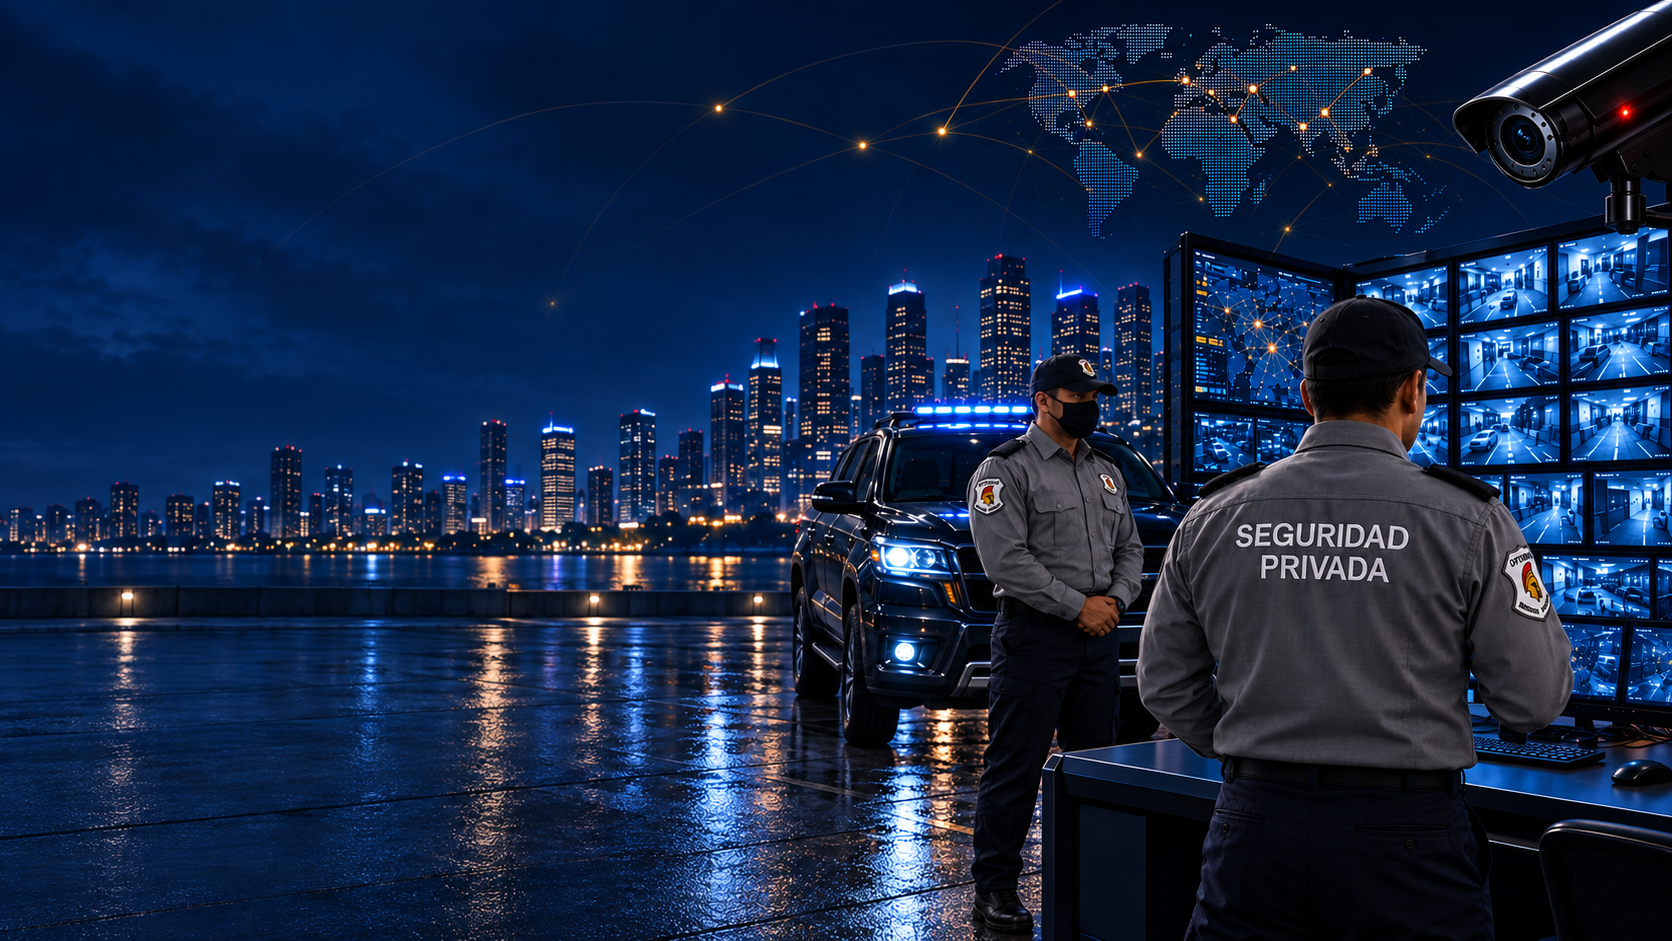
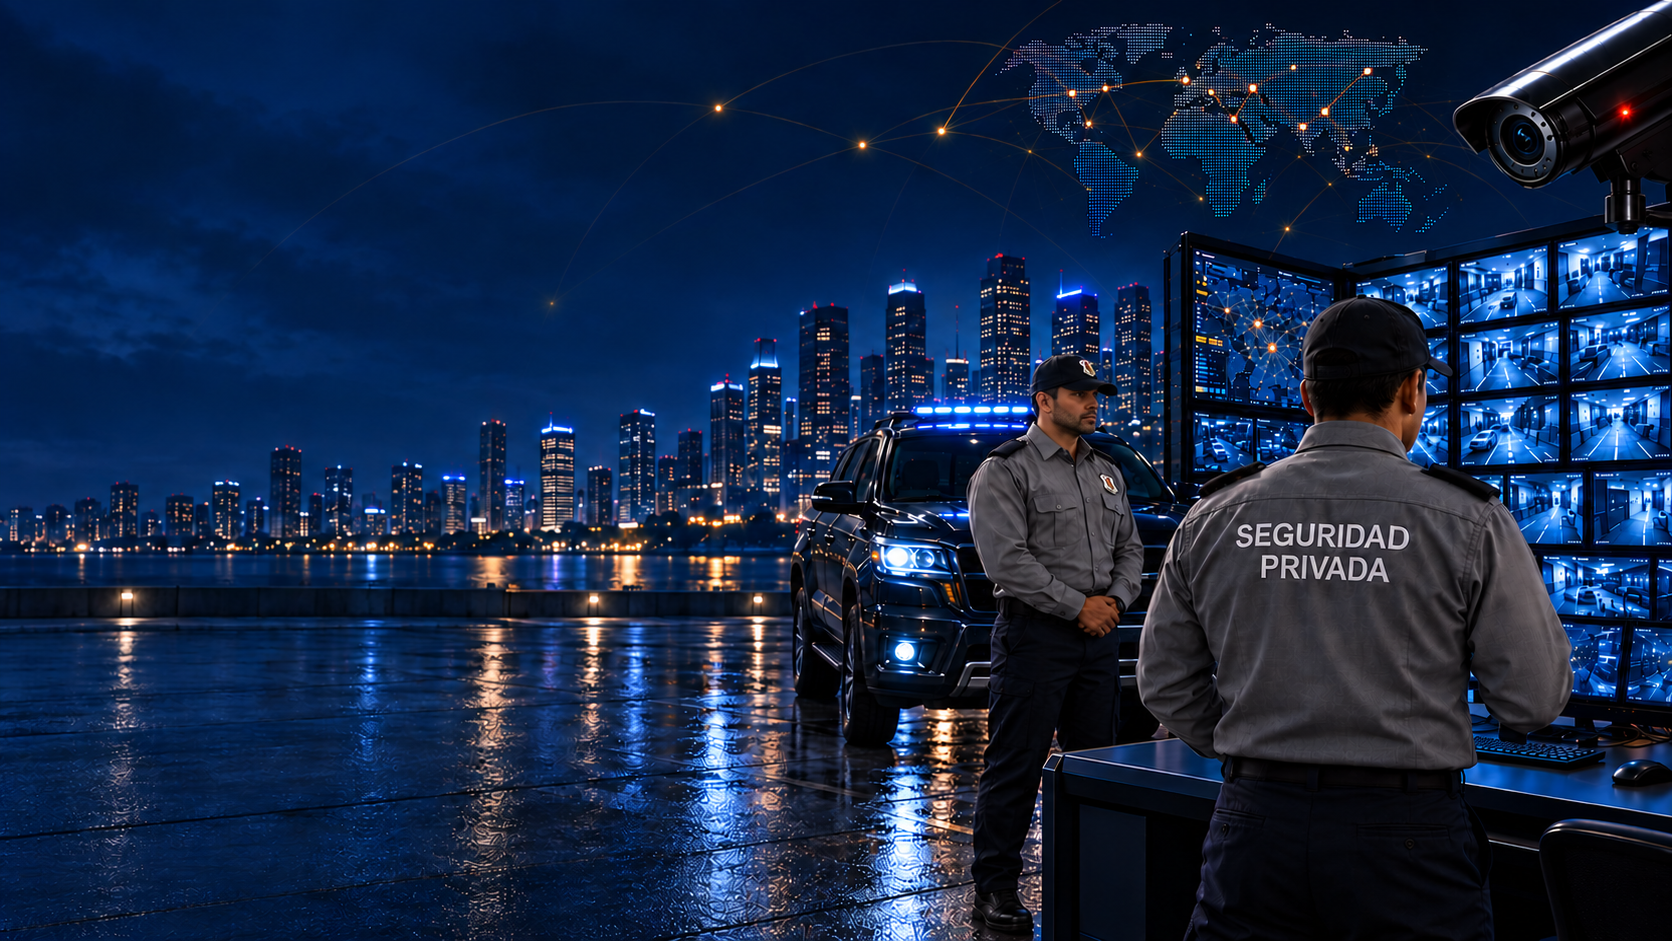
Responsive text alingment and hero helmet positioning

diff --git a/dark-classic-metallic-serif/index.html b/dark-classic-metallic-serif/index.html
@@ -7,7 +7,7 @@
   <meta name="description" content="OPTIMUM Seguridad Privada, S.C. en Culiacán, Sinaloa. Vigilancia profesional para empresas, campos agrícolas, granjas acuícolas e inmuebles.">
   <title>OPTIMUM | Seguridad Privada</title>
   <link rel="icon" href="assets/favicon.ico" type="image/x-icon">
-  <link rel="stylesheet" href="css/style.css?v=20260925-10-classic-metallic-dark">
+  <link rel="stylesheet" href="css/style.css?v=20260926-17-helmet-alignment">
   <script src="js/main.js" defer></script>
 </head>
 <body>
@@ -34,16 +34,14 @@
 
       <div class="hero-core">
         <div class="hero-brand-line">
-          <span class="hero-brand-emblem" role="img" aria-label="Escudo lineal de OPTIMUM Seguridad Privada"></span>
-          <p class="hero-kicker">SEGURIDAD PRIVADA · CULIACAN</p>
+          <span class="hero-brand-emblem" role="img" aria-label="Casco espartano dorado de OPTIMUM Seguridad Privada"></span>
         </div>
         <div class="hero-word" id="hero-title" aria-label="OPTIMUM">
           <span style="--delay:.08s">O</span><span style="--delay:.14s">P</span><span style="--delay:.20s">T</span>
           <span class="hero-i-wrap"><span class="hero-i">I</span></span>
           <span style="--delay:.38s">M</span><span style="--delay:.44s">U</span><span style="--delay:.50s">M</span>
         </div>
-        <p class="hero-company-name">SEGURIDAD PRIVADA, S.C.</p>
-        <p class="hero-tagline">Soluciones integrales para proteger personas,<br>patrimonio y continuidad operativa.</p>
+        <p class="hero-company-name"></p>
         <div class="hero-actions">
           <a class="hero-primary" href="#cotizacion">Solicitar cotización <span>↗</span></a>
           <a class="hero-secondary" href="#servicios">Conocer servicios <span>↓</span></a>
@@ -66,20 +64,24 @@
 
     <section class="section intro-section reveal" id="nosotros">
       <div class="shell split-heading">
-        <div><p class="eyebrow">01 / QUIÉNES SOMOS</p><h2>Protegemos lo que<br><em>más te importa.</em></h2></div>
+        <div><p class="eyebrow">01 / QUIÉNES SOMOS</p><h2><span class="title-line">Protegemos lo que</span><em class="title-line">más te importa.</em></h2></div>
         <div class="intro-copy"><p>Somos una empresa líder en seguridad privada, reconocida por su profesionalismo, confiabilidad y capacidad de respuesta.</p><a class="text-link" href="#contacto">Conoce cómo podemos ayudarte <span>↗</span></a></div>
       </div>
       <div class="shell statement-grid">
         <article><span>01</span><h3>Misión</h3><p>Ofrecer soluciones integrales de seguridad privada orientadas a la prevención de riesgos, protegiendo la integridad de las personas y el patrimonio de nuestros clientes, mediante personal capacitado y atención continua.</p></article>
         <article><span>02</span><h3>Visión</h3><p>Consolidarnos como una empresa líder en seguridad privada, reconocida por su eficiencia, profesionalismo, confiabilidad y capacidad de respuesta, mediante soluciones innovadoras y atención personalizada.</p></article>
+        <div class="statement-emblem" aria-hidden="true">
+          <span class="statement-emblem-half statement-emblem-half--left"></span>
+          <span class="statement-emblem-half statement-emblem-half--right"></span>
+        </div>
         <figure><img src="assets/agente-optimum-uniforme-v3.png" alt="Guardia de OPTIMUM con uniforme institucional" loading="lazy"><figcaption>Personal altamente capacitado</figcaption></figure>
       </div>
     </section>
 
     <section class="section services" id="servicios">
-      <div class="shell section-title reveal"><p class="eyebrow">02 / SERVICIOS</p><h2>Vigilancia adaptada a<br>cada <em>entorno.</em></h2><p>Protección preventiva para toda clase de inmuebles e instalaciones.</p></div>
+      <div class="shell section-title reveal"><p class="eyebrow">02 / SERVICIOS</p><h2><span class="title-line">Vigilancia</span><span class="title-line">adaptada a cada</span><em class="title-line">entorno.</em></h2><p>Protección preventiva para toda clase de inmuebles e instalaciones.</p></div>
       <div class="shell service-grid">
-        <article class="service-card reveal"><img src="assets/servicio-empresas-uniforme-v3.png" alt="Guardias de OPTIMUM vigilando instalaciones empresariales" loading="lazy"><div class="service-overlay"></div><div><p>Vigilancia</p><h3>Empresas e inmuebles</h3><small>Establecimientos comerciales e instalaciones.</small></div></article>
+        <article class="service-card reveal"><img src="assets/servicio-empresas-uniforme-v3.png" alt="Guardias de OPTIMUM vigilando instalaciones empresariales" loading="lazy"><div class="service-overlay"></div><div><p>Vigilancia</p><h3>Inmuebles e instalaciones</h3><small>Establecimientos de todo tipo.</small></div></article>
         <article class="service-card reveal"><img src="assets/servicio-campos-uniforme-v3.png" alt="Guardia de OPTIMUM vigilando un campo agrícola" loading="lazy"><div class="service-overlay"></div><div><p>Vigilancia</p><h3>Campos agrícolas</h3><small>Perímetros, accesos y continuidad operativa.</small></div></article>
         <article class="service-card reveal"><img src="assets/servicio-acuicolas-uniforme-v3.png" alt="Guardia de OPTIMUM vigilando una granja acuícola" loading="lazy"><div class="service-overlay"></div><div><p>Vigilancia</p><h3>Granjas acuícolas</h3><small>Infraestructura, estanques y puntos de control.</small></div></article>
       </div>
@@ -88,7 +90,7 @@
 
     <section class="section values" id="valores">
       <div class="shell values-layout">
-        <div class="values-sticky reveal"><p class="eyebrow">03 / NUESTROS VALORES</p><h2>Principios que<br>orientan el <em>servicio.</em></h2><p>Cada servicio se realiza con responsabilidad, discreción y atención continua.</p></div>
+        <div class="values-sticky reveal"><p class="eyebrow">03 / NUESTROS VALORES</p><h2><span class="title-line">Nuestros</span><span class="title-line">principios a tu</span><em class="title-line">servicio.</em></h2><p>Cada servicio se realiza con responsabilidad, discreción y atención continua.</p></div>
         <div class="values-list">
           <article class="reveal"><span>01</span><h3>Compromiso</h3><p>Asumimos cada servicio con absoluta responsabilidad, priorizando los intereses de nuestros clientes.</p></article>
           <article class="reveal"><span>02</span><h3>Confidencialidad</h3><p>Resguardamos la información y los intereses de quienes nos eligen con absoluta discreción.</p></article>
@@ -104,7 +106,7 @@
       <div class="shell contact-layout">
         <div class="contact-copy reveal">
           <p class="eyebrow">04 / CONTACTO</p>
-          <h2>Hablemos de<br>tu <em>seguridad.</em></h2>
+          <h2><span class="title-line">Hablemos de</span><span class="title-line">tu <em>seguridad.</em></span></h2>
         </div>
         <div class="contact-details reveal">
           <p class="eyebrow">ATENCIÓN A CLIENTES</p>
@@ -130,7 +132,7 @@
 
     <section class="quote section" id="cotizacion">
       <div class="shell quote-layout reveal">
-        <div><p class="eyebrow">SOLICITA UNA COTIZACIÓN</p><h2>Cuéntanos qué<br>necesitas proteger.</h2><p>El formulario prepara un mensaje para enviarlo directamente por WhatsApp.</p></div>
+        <div><p class="eyebrow">SOLICITA UNA COTIZACIÓN</p><h2><span class="title-line">¿Qué deseas</span><span class="title-line">proteger?</span></h2><p>El formulario prepara un mensaje para enviarlo directamente por WhatsApp.</p></div>
         <form id="quote-form">
           <label><span>Nombre</span><input name="nombre" autocomplete="name" required></label>
           <label><span>Empresa</span><input name="empresa" autocomplete="organization"></label>

diff --git a/dark-classic-metallic-serif/css/style.css b/dark-classic-metallic-serif/css/style.css
@@ -288,7 +288,7 @@ button, input, textarea {
   opacity: 1;
   transform-origin: 50% 100%;
   animation: verticalI 1.45s cubic-bezier(.2,.85,.25,1) .23s both;
-  color: var(--gold);
+  color: inherit;
   filter: drop-shadow(0 0 30px rgba(241,189,72,.2));
 }
 
@@ -514,6 +514,10 @@ section[id] {
   background: rgba(255,255,255,.12);
   margin-top: 80px;
   border: 1px solid rgba(255,255,255,.12);
+}
+
+.statement-emblem {
+  display: none;
 }
 
 
@@ -1374,7 +1378,7 @@ footer {
 }
 
 .statement-grid article:hover {
-  background: #16466b;
+  background: #16466b !important;
 }
 
 .service-card {
@@ -1419,6 +1423,10 @@ footer {
     animation: none!important;
     opacity: 1!important;
     transform: none!important;
+  }
+
+  .hero-brand-emblem {
+    animation: none!important;
   }
 
   .reveal {
@@ -2369,17 +2377,64 @@ footer {
 .hero-brand-line {
   display: flex;
   align-items: center;
-  gap: 15px;
-  margin-bottom: 4px;
+  justify-content: flex-start;
+  align-self: stretch;
+  margin-bottom: 10px;
 }
 
 .hero-brand-emblem {
+  --hero-emblem-size: clamp(112px, 10vw, 150px);
+  --hero-emblem-center-offset: clamp(135px, 12.68vw, 233.55px);
+  --hero-emblem-shift-x: 0px;
   display: block;
-  width: 72px;
-  aspect-ratio: 1173 / 1341;
+  width: var(--hero-emblem-size);
+  margin-left: calc(var(--hero-emblem-center-offset) - (var(--hero-emblem-size) / 2));
+  aspect-ratio: 1274 / 1235;
   flex: 0 0 auto;
-  background: url("../assets/header-helmet-outline.png") center / contain no-repeat;
-  filter: drop-shadow(0 8px 16px rgba(2, 8, 20, .38));
+  background: url("../assets/hero-spartan-gold.png") center / contain no-repeat;
+  transform: translateX(var(--hero-emblem-shift-x));
+  animation: heroEmblemIn .8s ease-out .08s both;
+}
+
+.title-line {
+  display: block;
+  max-width: 100%;
+}
+
+.split-heading > *,
+.section-title > *,
+.values-layout > *,
+.contact-layout > *,
+.quote-layout > * {
+  min-width: 0;
+}
+
+.intro-section .split-heading h2 {
+  font-size: clamp(2.9rem, 6vw, 5.15rem);
+}
+
+.values-sticky h2 {
+  font-size: clamp(2.9rem, 5vw, 4.25rem);
+}
+
+.contact-copy h2 {
+  font-size: clamp(3.2rem, 5.3vw, 5.4rem);
+}
+
+.quote-layout h2 {
+  font-size: clamp(3rem, 5vw, 4.8rem);
+}
+
+@keyframes heroEmblemIn {
+  0% {
+    opacity: .2;
+    transform: translateX(var(--hero-emblem-shift-x)) translateY(-8px) scale(.96);
+  }
+
+  100% {
+    opacity: 1;
+    transform: translateX(var(--hero-emblem-shift-x)) translateY(0) scale(1);
+  }
 }
 
 .hero-brand-line .hero-kicker {
@@ -2393,6 +2448,7 @@ footer {
   gap: clamp(.16rem, .55vw, .62rem);
   font-size: clamp(5.5rem, 8.25vw, 9.5rem);
   letter-spacing: 0;
+  padding-bottom: 3%;
 }
 
 .hero-tagline {
@@ -2454,6 +2510,10 @@ footer {
     gap: clamp(.1rem, .4vw, .36rem);
     font-size: clamp(4.75rem, 9.4vw, 7.2rem);
   }
+
+  .hero-brand-emblem {
+    --hero-emblem-center-offset: clamp(114px, 14.1vw, 172.8px);
+  }
 }
 
 @media(max-width: 900px) {
@@ -2467,6 +2527,10 @@ footer {
   .hero-word {
     justify-content: flex-start;
     font-size: clamp(4.25rem, 10.2vw, 6.2rem);
+  }
+
+  .hero-brand-emblem {
+    --hero-emblem-center-offset: clamp(101.8px, 15.27vw, 148.5px);
   }
 
   .hero::before {
@@ -2489,11 +2553,13 @@ footer {
   .hero-brand-line {
     flex-direction: column;
     justify-content: center;
-    gap: 6px;
+    margin-bottom: 8px;
   }
 
   .hero-brand-emblem {
-    width: 50px;
+    --hero-emblem-shift-x: 0px;
+    margin-left: 0;
+    width: 88px;
   }
 
   .hero-word {
@@ -2776,17 +2842,18 @@ footer {
   color: transparent;
   background:
     linear-gradient(180deg,
-      #fff2aa 0%,
-      #d89a24 22%,
-      #ffd96d 40%,
-      #9b6411 57%,
-      #f3bd43 76%,
-      #fff0a0 100%);
+      #ffffff 0%,
+      #c6cdd3 18%,
+      #f7f9fb 35%,
+      #77818a 52%,
+      #e9edf0 68%,
+      #929ba3 84%,
+      #f7f8f9 100%);
   background-clip: text;
   -webkit-background-clip: text;
   -webkit-text-fill-color: transparent;
-  -webkit-text-stroke: .5px rgba(255,225,133,.56);
-  filter: drop-shadow(0 2px 0 rgba(255,240,169,.24)) drop-shadow(0 10px 18px rgba(2,8,20,.36));
+  -webkit-text-stroke: .45px rgba(255,255,255,.42);
+  filter: drop-shadow(0 2px 0 rgba(255,255,255,.2)) drop-shadow(0 9px 16px rgba(2,8,20,.34));
 }
 
 .footer-word {
@@ -2846,7 +2913,7 @@ footer {
   width: 46px;
   height: 54px;
   flex: 0 0 auto;
-  background: url("../assets/header-helmet-outline.png") center / contain no-repeat;
+  background: url("../assets/footer-emblem-outline-white.png") center / contain no-repeat;
 }
 
 .brand-divider {
@@ -2970,7 +3037,7 @@ footer {
 /* Mission and vision: richer editorial cards on desktop */
 @media(min-width: 901px) {
   .statement-grid article {
-    min-height: 510px;
+    min-height: 620px;
     position: relative;
     isolation: isolate;
     overflow: hidden;
@@ -2988,23 +3055,52 @@ footer {
       linear-gradient(215deg, #0c2d4f, #061c33 74%);
   }
 
-  .statement-grid article::before {
-    content: "";
-    position: absolute;
-    z-index: -1;
-    width: 220px;
-    aspect-ratio: 1173 / 1341;
-    right: -54px;
-    bottom: -52px;
-    background: url("../assets/header-helmet-outline.png") center / contain no-repeat;
-    opacity: .055;
-    transform: rotate(-8deg);
+  .statement-grid {
+    position: relative;
   }
 
-  .statement-grid article:nth-child(2)::before {
-    right: auto;
-    left: -58px;
-    transform: rotate(8deg);
+  .statement-emblem {
+    display: block;
+    position: absolute;
+    z-index: 3;
+    left: calc(100% / 3.1);
+    bottom: 18px;
+    width: 184px;
+    aspect-ratio: 1173 / 1341;
+    transform: translateX(-50%);
+    pointer-events: none;
+  }
+
+  .statement-emblem-half {
+    position: absolute;
+    inset: 0;
+    background: rgba(245, 247, 250, .14);
+    -webkit-mask: url("../assets/footer-emblem-outline-white.png") center / contain no-repeat;
+    mask: url("../assets/footer-emblem-outline-white.png") center / contain no-repeat;
+    transition: transform .48s cubic-bezier(.2, .8, .2, 1), background-color .42s ease, filter .42s ease;
+  }
+
+  .statement-emblem-half--left {
+    clip-path: inset(0 50% 0 0);
+    transform-origin: 50% 50%;
+  }
+
+  .statement-emblem-half--right {
+    clip-path: inset(0 0 0 50%);
+    transform-origin: 50% 50%;
+  }
+
+  .statement-grid > article:first-child:hover ~ .statement-emblem .statement-emblem-half--left,
+  .statement-grid > article:nth-child(2):hover ~ .statement-emblem .statement-emblem-half--right {
+    background-color: rgba(245, 247, 250, .27);
+    filter: drop-shadow(0 0 12px rgba(245, 247, 250, .18));
+    transform: scale(1.14);
+  }
+
+  @media(max-width: 1100px) {
+    .statement-emblem {
+      left: 50%;
+    }
   }
 
   .statement-grid article::after {
@@ -3036,8 +3132,8 @@ footer {
   .statement-grid h3 {
     position: relative;
     z-index: 1;
-    margin: 58px 0 22px;
-    padding-top: 82px;
+    margin: 36px 0 18px;
+    padding-top: 64px;
     font-size: 40px;
   }
 
